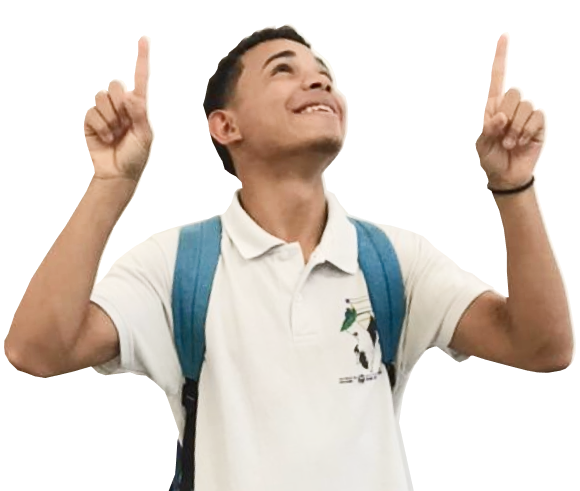
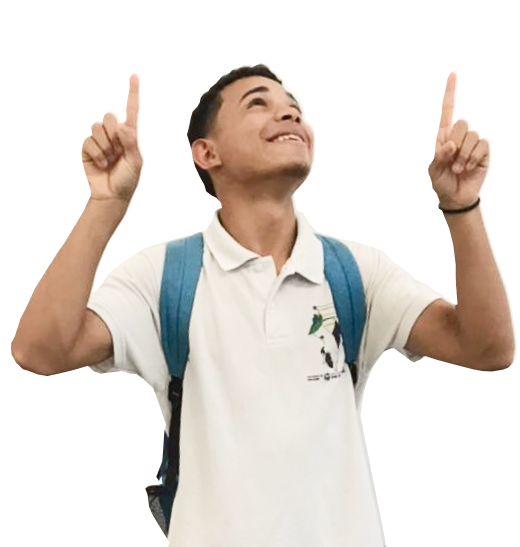
trocando foto da home

diff --git a/style.css b/style.css
@@ -509,6 +509,8 @@ footer .social-links {
   .col-b {
     grid-area: B;
     min-height:547px;
+    display: flex;
+    align-items: flex-end;
   }
 
   section {
